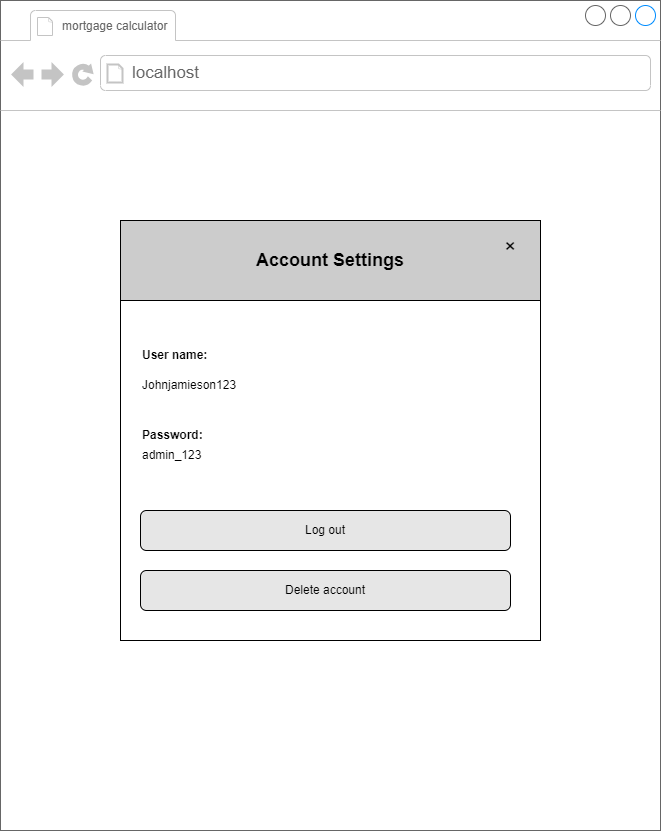
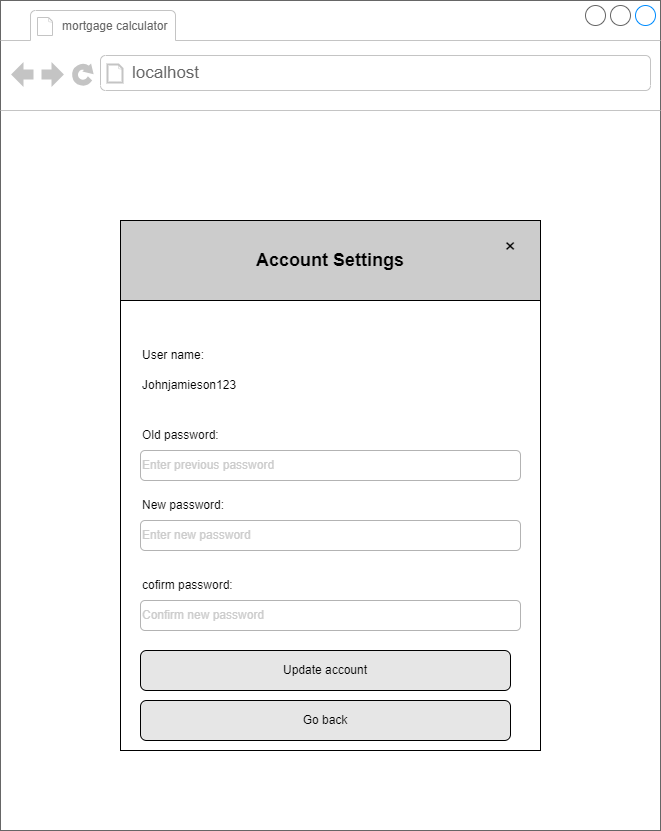
updated SDD and added a wireframe

diff --git a/Design/Software Design document.md b/Design/Software Design document.md
@@ -211,11 +211,14 @@ The reason we're writing this document is to explain how the Home Loan Monitor T
 
 ## 6. Data Design
 ### 6.1 Entity Relationship Diagram
-> The purpose of the Entity-Relationship Diagram (ERD) is to visually represent the structure of the database for the home loan monitor. By mapping out entities like "User," "mortgage," "override payment,"and so on, along with their attributes and relationships, the ERD will provide a clear understanding of how data is organized within the system. This visualization will aid in the design and development of the tool, ensuring it effectively manages home loans by calculating payments, tracking interest rates, and facilitating management of multiple mortgages. <br>
+> The purpose of the Entity-Relationship Diagram(ERD) is to visually represent the structure of the database for the mortgage calculator,
+By mapping out entities like "User," "mortgage," "transaction, along with their attributes and relationships.
+The ERD will provide a clear understanding of how data is organized within the system. 
+
 
 > ![ERD](ERD.png)
 ### 6.2 Data Flow Diagram
-> The Data Flow Diagram (DFD) serves to illustrate the flow of data within the system, showing how data is input, processed, and output. It helps in understanding the flow of information and the interactions between different components within the software. <br>
+> The Data Flow Diagram (DFD) serves to illustrate the flow of data within the system, showing how data is input, processed, and output. It helps to understand the flow of information and the interactions between different components within the software. <br>
 
 > ![DFD](DFD.png)
 
@@ -282,14 +285,17 @@ The username will display as default and user can change password.
 When user clicks the user icon on the top right page then a pop up window will appear for user to update their account information.
 > ![wireframe_user_icon_function](wireframe_user_icon_function.png)
 
-<br><br>**User deleting account page**:
-> ![wireframe_user_settings](wireframe_user_settings.png)
 
 
 
 
 
 ## 9. Test Framework
+_Unit Testing_
+<br> The main objective is to isolate written code and determine if it works as it should, so we can detect early flaws in code.
+We will focus on creating unit test cases before developing the actual code by using automated unit testing for validating the functionality.
+
+
 
 
 ## 10. Conclusion
